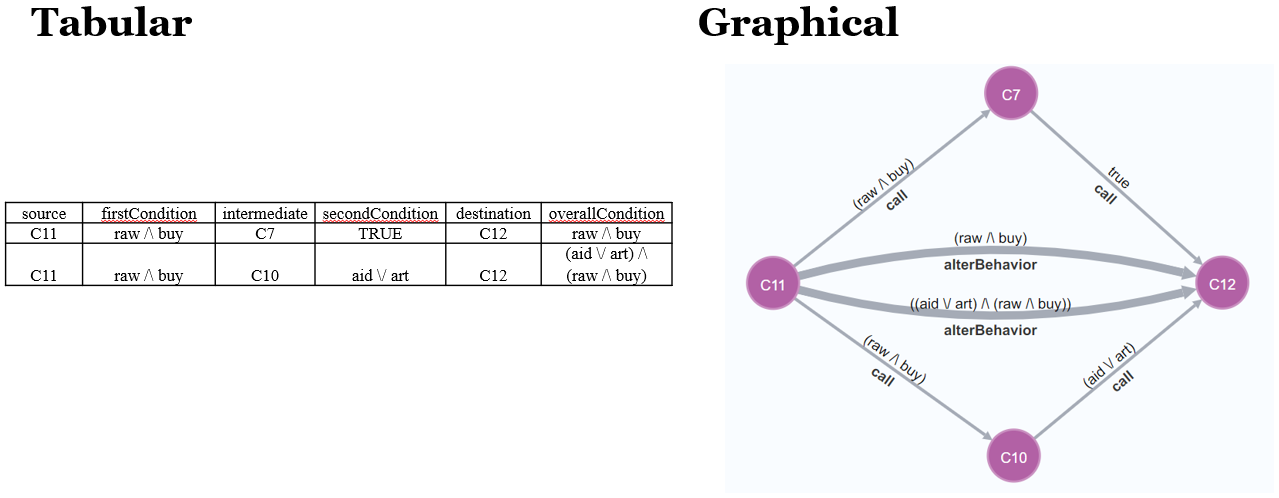
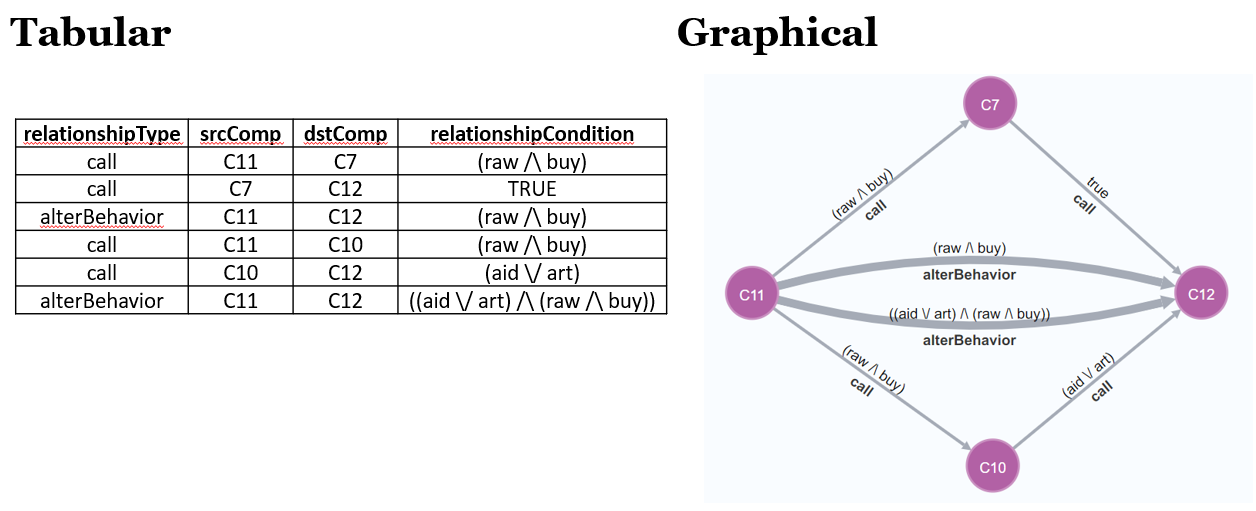
Update tutorial file

diff --git a/src/browser/documentation/play-guides/tutorial.tsx b/src/browser/documentation/play-guides/tutorial.tsx
@@ -75,7 +75,7 @@ const slides = [
         Results format - Behaviour Alteration analysis (path between components)
       </h3>
       <p className="lead">
-        Click on the following query and hit the play button to create a{' '}
+        Click on the query to the right and hit the play button to create a{' '}
         <b>graphical representation</b> of analysis results with relationships
         of the same type.
       </p>
@@ -104,7 +104,7 @@ const slides = [
         Results format - Behaviour Alteration analysis (with internal calls)
       </h3>
       <p className="lead">
-        Click on the following query and hit the play button to create a{' '}
+        Click on the query to the right and hit the play button to create a{' '}
         <b>graphical representation</b> of analysis results with relationships
         of different types.
       </p>
@@ -133,10 +133,10 @@ const slides = [
         Results format - Behaviour Alteration analysis (with internal calls)
       </h3>
       <p className="lead">
-        Click on the following query and hit the play button to create a{' '}
+        Click on the query to the right and hit the play button to create a{' '}
         <b>graphical representation</b> of a larger example of analysis results
         with relationships of different types. Feel free to move the nodes
-        around with your cursor to make it easir to view the full graph and its
+        around with your cursor to make it easier to view the full graph and its
         labels.
       </p>
       <br />
@@ -162,11 +162,12 @@ const slides = [
     <div className="col-sm-3">
       <h3>Results filtered by a single variant (small example)</h3>
       <p className="lead">
-        Click on the following query and hit the play button to create a{' '}
+        Click on the query to the right and hit the play button to create a
         <b>graphical representation</b> of analysis results with relationships
         of different types. Maximize the visualization and create a filter with
         the configuration expression <b>"aid /\ art /\ !raw /\ buy"</b>. Click
-        on the filter label in the sidebar to assign it a different colour.
+        on the filter label in the sidebar to assign it a different colour. When
+        you are done, minimize the visualization to return to the demo.
       </p>
       <br />
     </div>
@@ -192,11 +193,12 @@ const slides = [
       <h3>Results filtered by two variants (small example)</h3>
       <p className="lead">
         For this example, you can use the visualization created in the previous
-        page and simply add a second filter. Add a second filter{' '}
-        <b>"aid /\ art /\ raw /\ buy"</b>, and click on the filter's label in
-        the sidebar to assign it a different colour. Make sure to remove all
-        filters before running another query, unless you prefer to apply these
-        same filters to the next query.
+        page and simply add a second filter. Maximize the visualization and add
+        a second filter <b>"aid /\ art /\ raw /\ buy"</b>, and click on the
+        filter's label in the sidebar to assign it a different colour. Make sure
+        to remove all filters before running another query, unless you prefer to
+        apply these same filters to the next query. When you are done, minimize
+        the visualization to return to the demo.
       </p>
       <br />
     </div>
@@ -222,9 +224,10 @@ const slides = [
       <h3>Results filtered by a group of variants</h3>
       <p className="lead">
         For this example, you can use the visualization created on the previous
-        page and simply change the filters. Remove all existing filters and add
-        the filter <b>“!raw /\ art”</b>. Click on the filter's label in the
-        sidebar to assign it a different colour.
+        page and simply change the filters. Maximize the visualization, remove
+        all existing filters and add the filter <b>“!raw /\ art”</b>. Click on
+        the filter's label in the sidebar to assign it a different colour. When
+        you are done, minimize the visualization to return to the demo.
       </p>
       <br />
     </div>
@@ -250,9 +253,10 @@ const slides = [
       <h3>Compare groups of variants</h3>
       <p className="lead">
         For this example, you can use the visualization created on the previous
-        page and simply add a second filter. Add a second filter <b>"aid"</b>,
-        and click on the filter's label in the sidebar to assign it a different
-        colour.
+        page and simply add a second filter. Maximize the visualization, add a
+        second filter <b>"aid"</b>, and click on the filter's label in the
+        sidebar to assign it a different colour. When you are done, minimize the
+        visualization to return to the demo.
       </p>
       <br />
     </div>
@@ -271,6 +275,31 @@ const slides = [
         src="./assets/images/tableMultipleGroupVariants.png"
         alt="Customization options"
       />
+    </div>
+  </Slide>,
+  <Slide key="s9">
+    <div className="col-sm-3">
+      <h3>Seeking feedback on results representation</h3>
+      <p className="lead"></p>
+      <br />
+    </div>
+    <div className="col-sm-9">
+      We are seeking feedback on the results representation, so we want to ask
+      you:
+      <ul>
+        <li>
+          Which format is easier to <b>read, understand, search, explore</b>?
+        </li>
+        <li>
+          Which format is better to represent <b>variable results</b> depending
+          on configuration variants?
+        </li>
+      </ul>
+      <br />
+      To answer those questions, click <a href="https://bit.ly/3vOxRS9">
+        here
+      </a>{' '}
+      to access our survey and give your impressions. Thank you!
     </div>
   </Slide>
 ]
